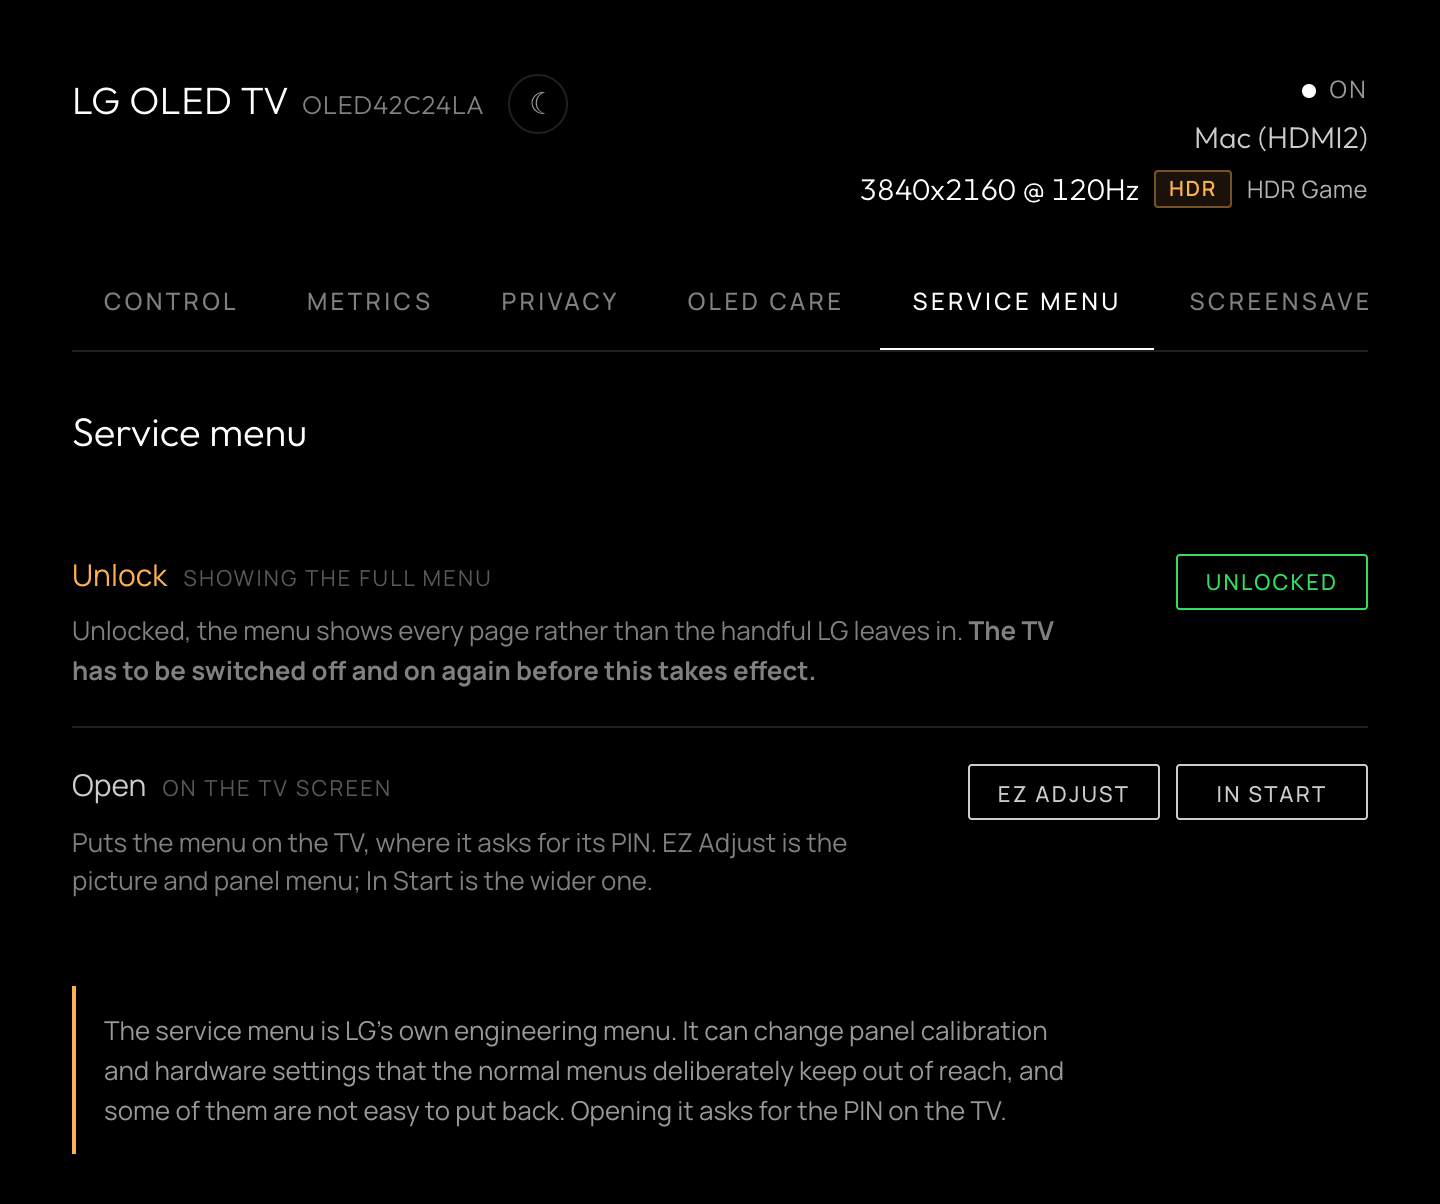
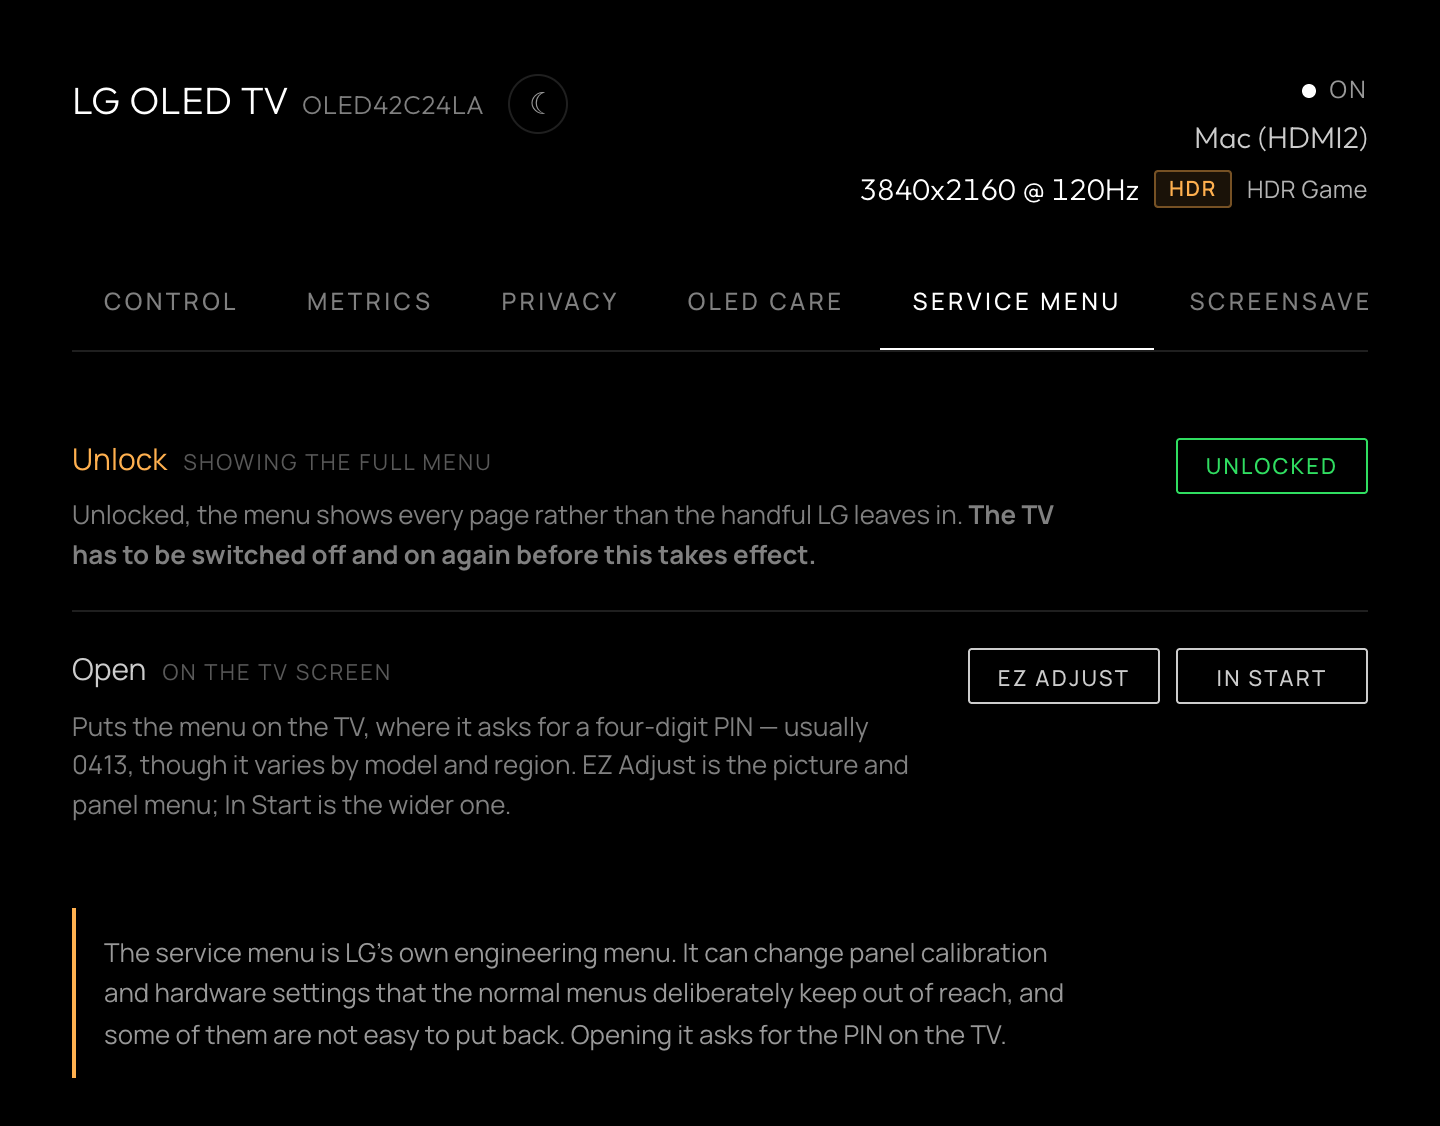
Close the OLED Care section, and drop the repeated panel titles
Inserting the Service menu panel left a second opening tag for the OLED Care
section with nothing closing it, so Screensaver, Privacy and MQTT were nested
inside a section that is hidden unless OLED Care is showing. Same mistake as
the screen saver section, from the same kind of edit.

The three newest panels also opened with their own name, which the tab above
them already gives. Everywhere else that heading names the first block of
content - the privacy panel opens with "Ad & telemetry blocker" - so they now
start with their content. A stray label copied from the privacy panel goes with
them.

The service menu row says the PIN is four digits and usually 0413. It is not
held in the app, and the set branches on model and market for how it is checked,
so it cannot be read and stated with certainty - and it is not typed in for
anyone: it is the last gate in front of panel calibration, on a dashboard that
anyone on the network can reach.

diff --git a/server/assets/ui.html b/server/assets/ui.html
@@ -833,12 +833,6 @@ footer{margin-top:38px;font-size:12px;letter-spacing:.10em;text-transform:upperc
 </section>
 
 <section class="priv panel" id="svcpane" role="tabpanel" hidden>
-  <div class="pv-top">
-    <div>
-      <div class="pv-h">Service menu</div>
-    </div>
-  </div>
-
   <div id="svc-rows"></div>
 
   <div class="oled-warn">
@@ -849,13 +843,7 @@ footer{margin-top:38px;font-size:12px;letter-spacing:.10em;text-transform:upperc
   </div>
 </section>
 
-<section class="priv panel" id="oledpane" role="tabpanel" hidden><section class="priv panel" id="oledpane" role="tabpanel" hidden>
-  <div class="pv-top">
-    <div>
-      <div class="pv-h">OLED care</div>
-    </div>
-  </div>
-
+<section class="priv panel" id="oledpane" role="tabpanel" hidden>
   <div id="oled-rows"></div>
 
   <div class="oled-warn" id="oled-warn" hidden>
@@ -866,12 +854,6 @@ footer{margin-top:38px;font-size:12px;letter-spacing:.10em;text-transform:upperc
 </section>
 
 <section class="priv panel" id="sspane" role="tabpanel" hidden>
-  <div class="pv-top">
-    <div>
-      <div class="pv-h">Screen saver</div>
-    </div>
-  </div>
-
   <div id="ss-list" class="ss-list"></div>
   <div class="ss-level-row" id="ss-level-row" hidden>
     <div class="ss-level-lbl">Brightness</div>
@@ -2155,7 +2137,7 @@ async function loadServiceMenu() {
     <div class="oled-row">
       <div class="oled-main">
         <div class="oled-name">Open<span class="oled-sub">On the TV screen</span></div>
-        <div class="oled-desc">Puts the menu on the TV, where it asks for its PIN. EZ Adjust is the picture and panel menu; In Start is the wider one.</div>
+        <div class="oled-desc">Puts the menu on the TV, where it asks for a four-digit PIN &mdash; usually 0413, though it varies by model and region. EZ Adjust is the picture and panel menu; In Start is the wider one.</div>
       </div>
       <div class="oled-ctl">
         <button class="pill" data-svc="open" data-menu="ezAdjust" ${dis}>EZ Adjust</button>
